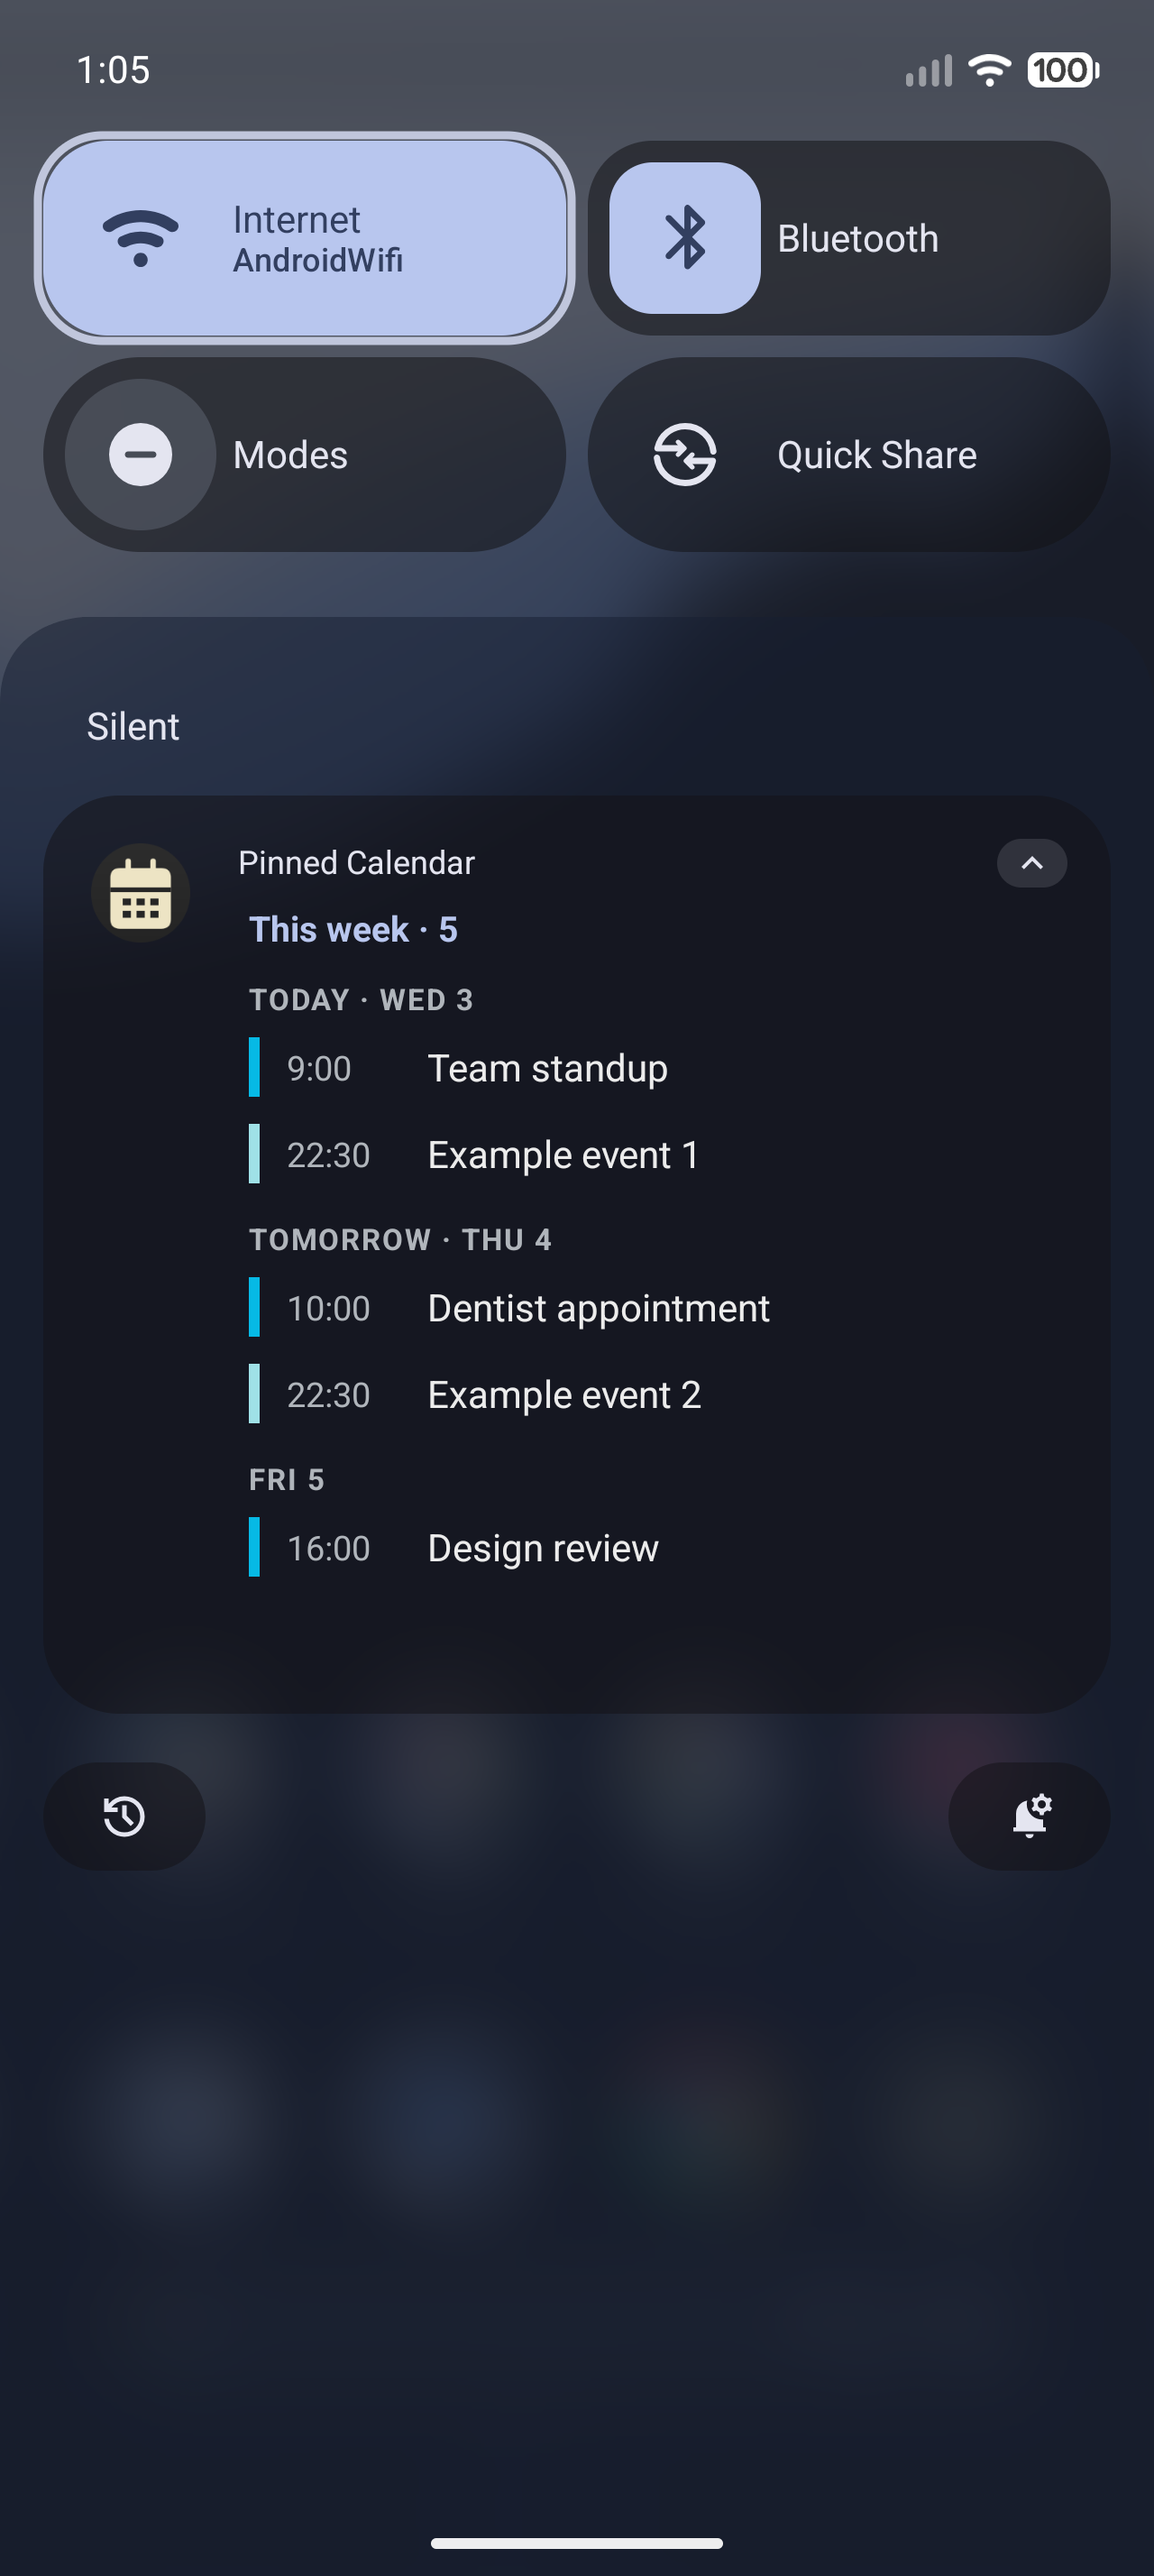
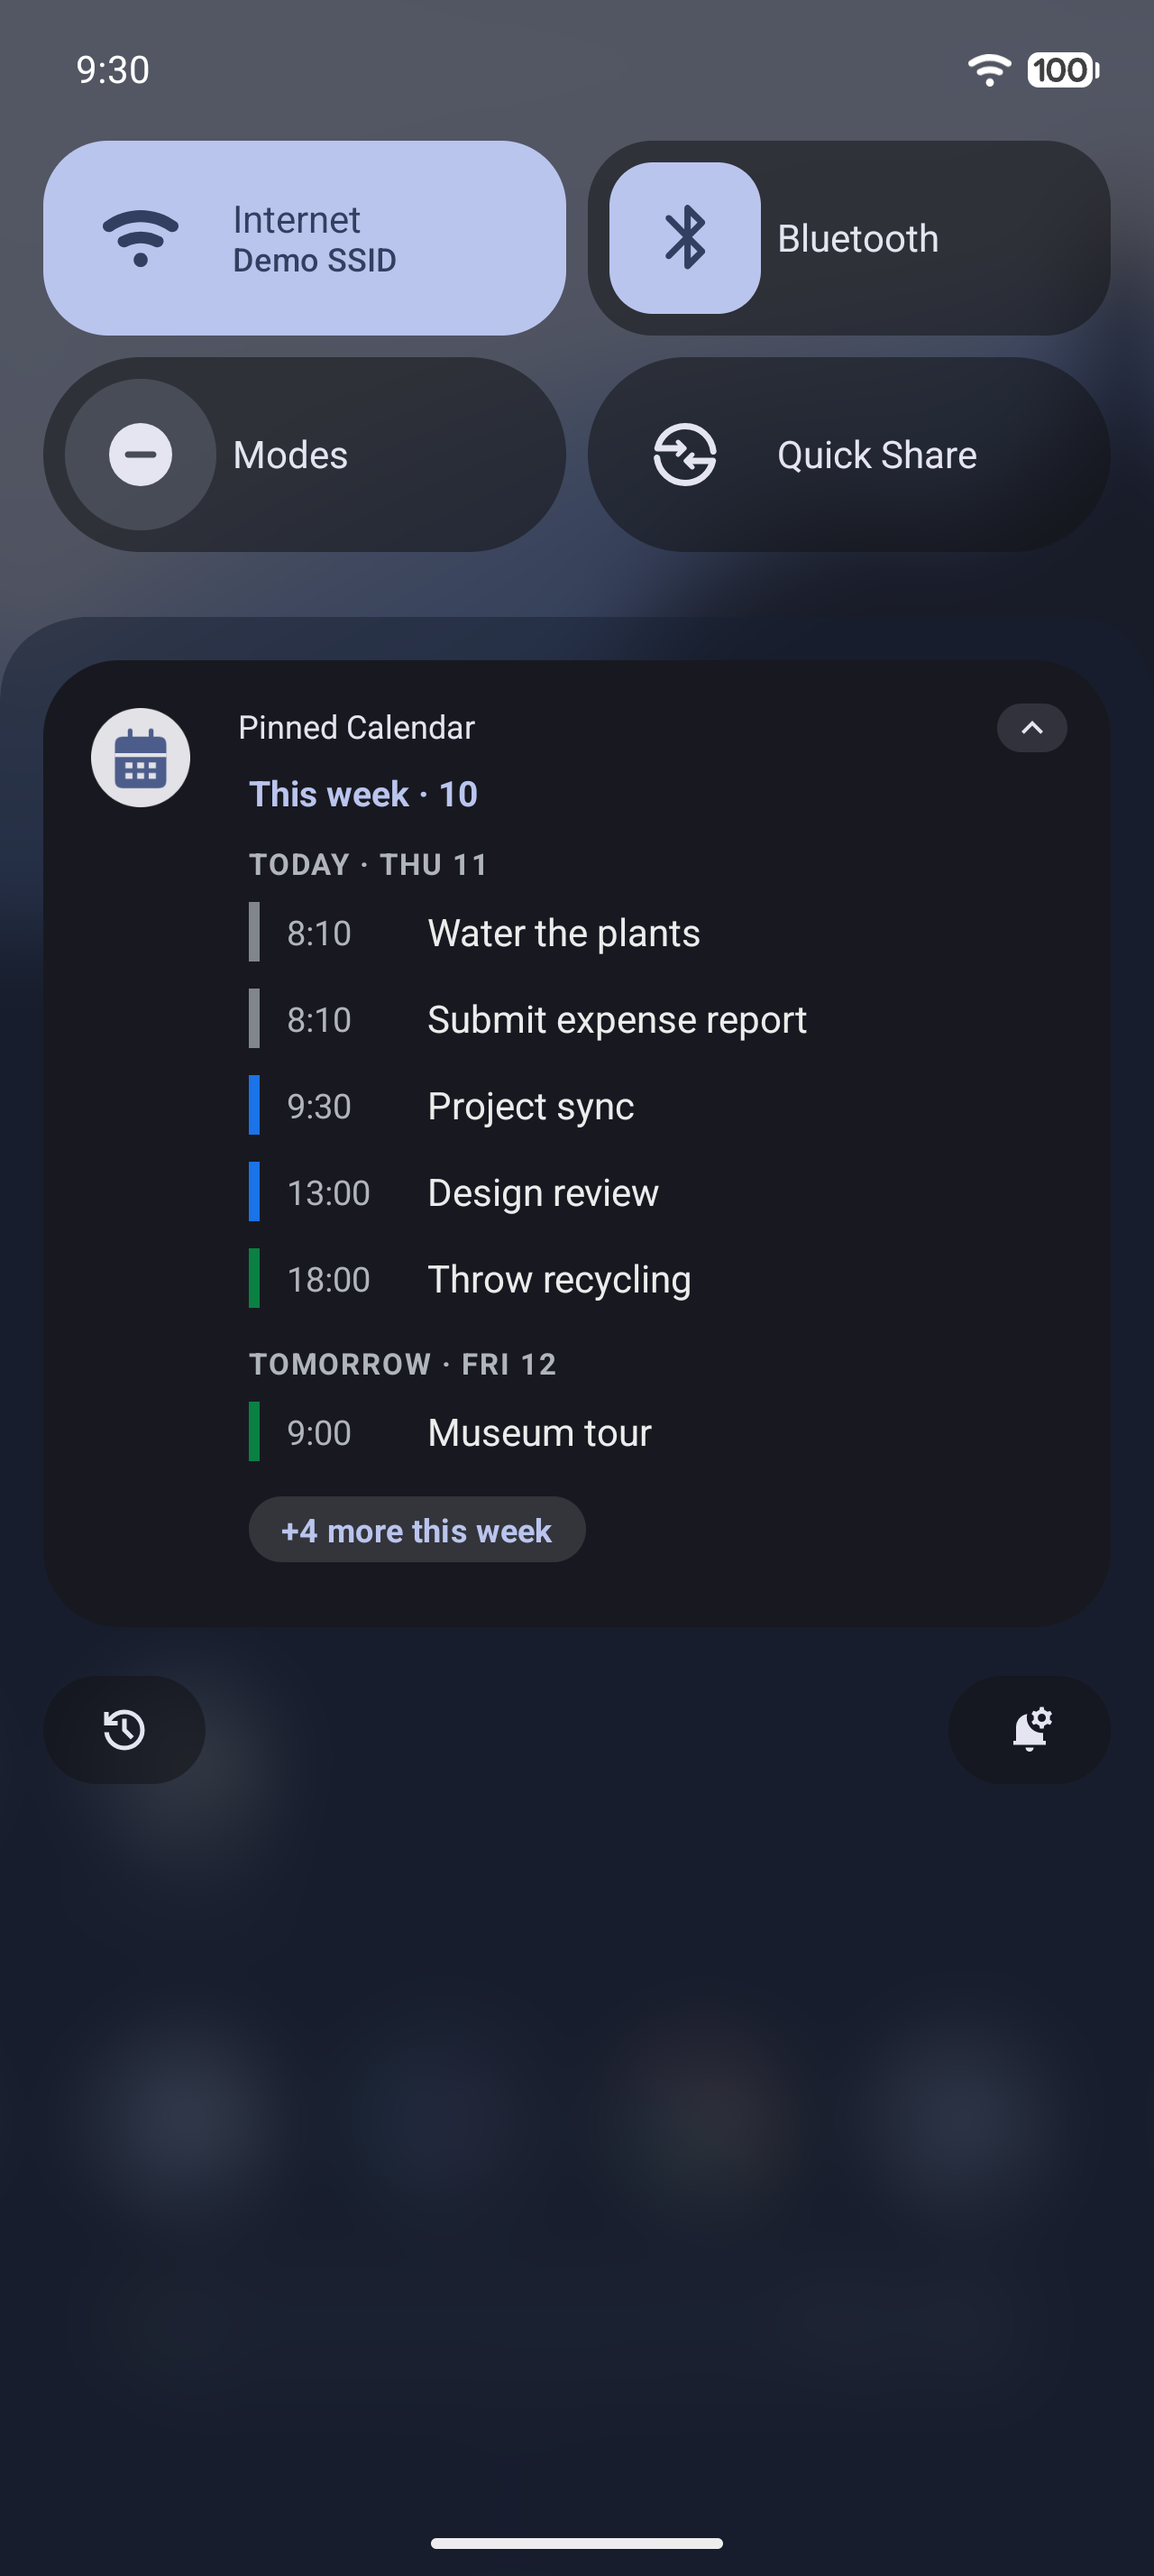
Keep the pin newest in its tier and never heads-up, refresh screenshots (1.3.2)
- The OS refreshes a notification's ranking time only from an
  app-provided, non-future 'when'; the previous far-future stamp was
  ignored and froze the pin's recency at its first post, letting it
  sink below newer high-importance notifications. Stamp a fresh 'when'
  on every build so each refresh re-asserts the pin at the top of its
  tier (the timestamp itself stays hidden).
- Build the pin with setSilent so it never peeks on screen: first
  post, self-heal re-posts, and update re-posts all slide into the
  shade quietly. Importance-based ranking is unchanged.
- Refresh README screenshots from an Android 16 emulator and add
  To-dos/Settings tab shots alongside the light/dark shade captures.

diff --git a/app/src/main/java/com/ahnafnafee/pinnedcalendar/notify/AgendaNotificationBuilder.kt b/app/src/main/java/com/ahnafnafee/pinnedcalendar/notify/AgendaNotificationBuilder.kt
@@ -32,19 +32,22 @@ class AgendaNotificationBuilder(private val context: Context) {
             .setOngoing(true)
             .setAutoCancel(false)
             .setOnlyAlertOnce(true)
+            // Never heads-up: every fresh post (first pin, self-heal, app update) must slide into
+            // the shade quietly, even on the high-importance Top channel. Importance-based ranking
+            // is unaffected — only the peek/sound/vibration alert path is suppressed.
+            .setSilent(true)
+            // The shade breaks importance ties by ranking time, and the OS refreshes that only
+            // from an app-provided, non-future 'when' — future values are ignored and updates
+            // inherit the previous time, so a frozen or future stamp makes the pin sink as newer
+            // notifications arrive. A fresh stamp on every build re-asserts the pin as newest in
+            // its tier on each refresh; setShowWhen(false) keeps the timestamp itself hidden.
+            .setWhen(System.currentTimeMillis())
             .setShowWhen(false)
             .setPriority(legacyPriority(priority))
             .setCategory(NotificationCompat.CATEGORY_STATUS)
             .setVisibility(NotificationCompat.VISIBILITY_PUBLIC)
             .setContentIntent(contentIntent)
             .setDeleteIntent(deleteIntent)
-            .apply {
-                // The shade ranks same-importance notifications newest-first. Stamping Top with a
-                // fixed far-future post time keeps the pin at the top of the High bucket instead of
-                // sinking as new notifications arrive; setShowWhen(false) and the custom layout keep
-                // the timestamp itself hidden. Lower levels keep their real post time so they mix in.
-                if (priority == NotificationPriority.TOP) setWhen(PIN_SORT_WHEN)
-            }
             .build()
     }
 
@@ -53,11 +56,5 @@ class AgendaNotificationBuilder(private val context: Context) {
         NotificationPriority.TOP -> NotificationCompat.PRIORITY_MAX
         NotificationPriority.NORMAL -> NotificationCompat.PRIORITY_DEFAULT
         NotificationPriority.SILENT -> NotificationCompat.PRIORITY_LOW
-    }
-
-    private companion object {
-        // Fixed, far in the future (~year 2100) so the pin always sorts as the "newest" High
-        // notification; fixed rather than recomputed so re-posts don't reshuffle the order.
-        const val PIN_SORT_WHEN = 4_102_444_800_000L
     }
 }

diff --git a/app/src/test/java/com/ahnafnafee/pinnedcalendar/notify/AgendaNotificationBuilderTest.kt b/app/src/test/java/com/ahnafnafee/pinnedcalendar/notify/AgendaNotificationBuilderTest.kt
@@ -58,16 +58,31 @@ class AgendaNotificationBuilderTest {
     }
 
     @Suppress("DEPRECATION") // legacy Notification.priority is the field this lever populates
-    @Test fun top_priority_sorts_newest_with_max_priority() {
+    @Test fun every_build_stamps_a_fresh_ranking_timestamp_with_mapped_priority() {
         ChannelManager.ensureChannel(ctx, NotificationPriority.TOP)
+        val before = System.currentTimeMillis()
         val top = AgendaNotificationBuilder(ctx).build(sampleContent(), NotificationPriority.TOP)
+        val after = System.currentTimeMillis()
         assertEquals(Notification.PRIORITY_MAX, top.priority)
-        // Far-future post time keeps Top at the head of the High bucket as new notifications arrive.
-        assertTrue("Top should post far in the future", top.`when` > System.currentTimeMillis())
+        // The shade breaks importance ties by ranking time, and the OS refreshes that only from
+        // an app-provided, NON-future 'when' (future values are ignored and updates inherit the
+        // old time). A fresh stamp on every build keeps the pin newest in its tier.
+        assertTrue("'when' must be a fresh, non-future timestamp", top.`when` in before..after)
 
         ChannelManager.ensureChannel(ctx, NotificationPriority.NORMAL)
         val normal = AgendaNotificationBuilder(ctx).build(sampleContent(), NotificationPriority.NORMAL)
         assertEquals(Notification.PRIORITY_DEFAULT, normal.priority)
+        assertTrue("'when' is stamped for every priority", normal.`when` >= before)
+    }
+
+    @Test fun pin_is_silent_so_it_never_heads_up() {
+        // Every fresh post (first pin, self-heal, app update) must slide into the shade without
+        // peeking on screen. Compat's setSilent contract: alerts are deferred to a group summary
+        // that never exists.
+        ChannelManager.ensureChannel(ctx, NotificationPriority.TOP)
+        val n = AgendaNotificationBuilder(ctx).build(sampleContent(), NotificationPriority.TOP)
+        assertEquals("silent", n.group)
+        assertEquals(Notification.GROUP_ALERT_SUMMARY, n.groupAlertBehavior)
     }
 
     @Test fun each_priority_maps_to_its_importance() {

diff --git a/app/src/main/java/com/ahnafnafee/pinnedcalendar/MainActivity.kt b/app/src/main/java/com/ahnafnafee/pinnedcalendar/MainActivity.kt
@@ -303,7 +303,7 @@ private fun SettingsTab(
         CardCaption(
             when (s.notificationPriority) {
                 NotificationPriority.TOP ->
-                    "Sits above other notifications. May briefly pop in the first time — never makes a sound."
+                    "Sits above other notifications — never pops up or makes a sound."
                 NotificationPriority.NORMAL ->
                     "Mixes in with your everyday notifications."
                 NotificationPriority.SILENT ->

diff --git a/README.md b/README.md
@@ -25,18 +25,20 @@ The pin is self-healing: swipe it away by accident and it re-posts itself. When 
   <tr>
     <td align="center"><b>Pinned agenda (light)</b></td>
     <td align="center"><b>Pinned agenda (dark)</b></td>
-    <td align="center"><b>Material You settings</b></td>
+    <td align="center"><b>To-dos tab</b></td>
+    <td align="center"><b>Settings tab</b></td>
   </tr>
   <tr>
-    <td><img src="docs/screenshots/notification-light.png" width="240" alt="Persistent calendar notification showing the week's agenda in light mode" /></td>
-    <td><img src="docs/screenshots/notification-dark.png" width="240" alt="Persistent calendar notification showing the week's agenda in dark mode" /></td>
-    <td><img src="docs/screenshots/settings.png" width="240" alt="Material You settings screen with week overview card and pill chips" /></td>
+    <td><img src="docs/screenshots/notification-light.png" width="200" alt="Persistent calendar notification showing the week's agenda in light mode" /></td>
+    <td><img src="docs/screenshots/notification-dark.png" width="200" alt="Persistent calendar notification showing the week's agenda in dark mode" /></td>
+    <td><img src="docs/screenshots/todos.png" width="200" alt="To-dos tab with the week overview card and task list" /></td>
+    <td><img src="docs/screenshots/settings.png" width="200" alt="Settings tab with Material You cards for notifications, time window, and calendars" /></td>
   </tr>
 </table>
 
 ## Features
 
-- Persistent, self-healing notification: an ongoing pin that re-posts itself after an accidental swipe. Set its priority to Top, Normal, or Silent — Top keeps it above your everyday notifications without ever making a sound.
+- Persistent, self-healing notification: an ongoing pin that re-posts itself after an accidental swipe. Set its priority to Top, Normal, or Silent — Top keeps it above your everyday notifications without ever popping up or making a sound.
 - Swipe twice to remove: an optional gesture to dismiss the pin for good without opening settings.
 - Reads your device calendars through Android's Calendar Provider, with per-calendar colours. No sign-in, no OAuth, no network.
 - Local to-dos: add quick tasks in the app and they merge into the same agenda. Tasks carry forward day to day until you complete or delete them.
